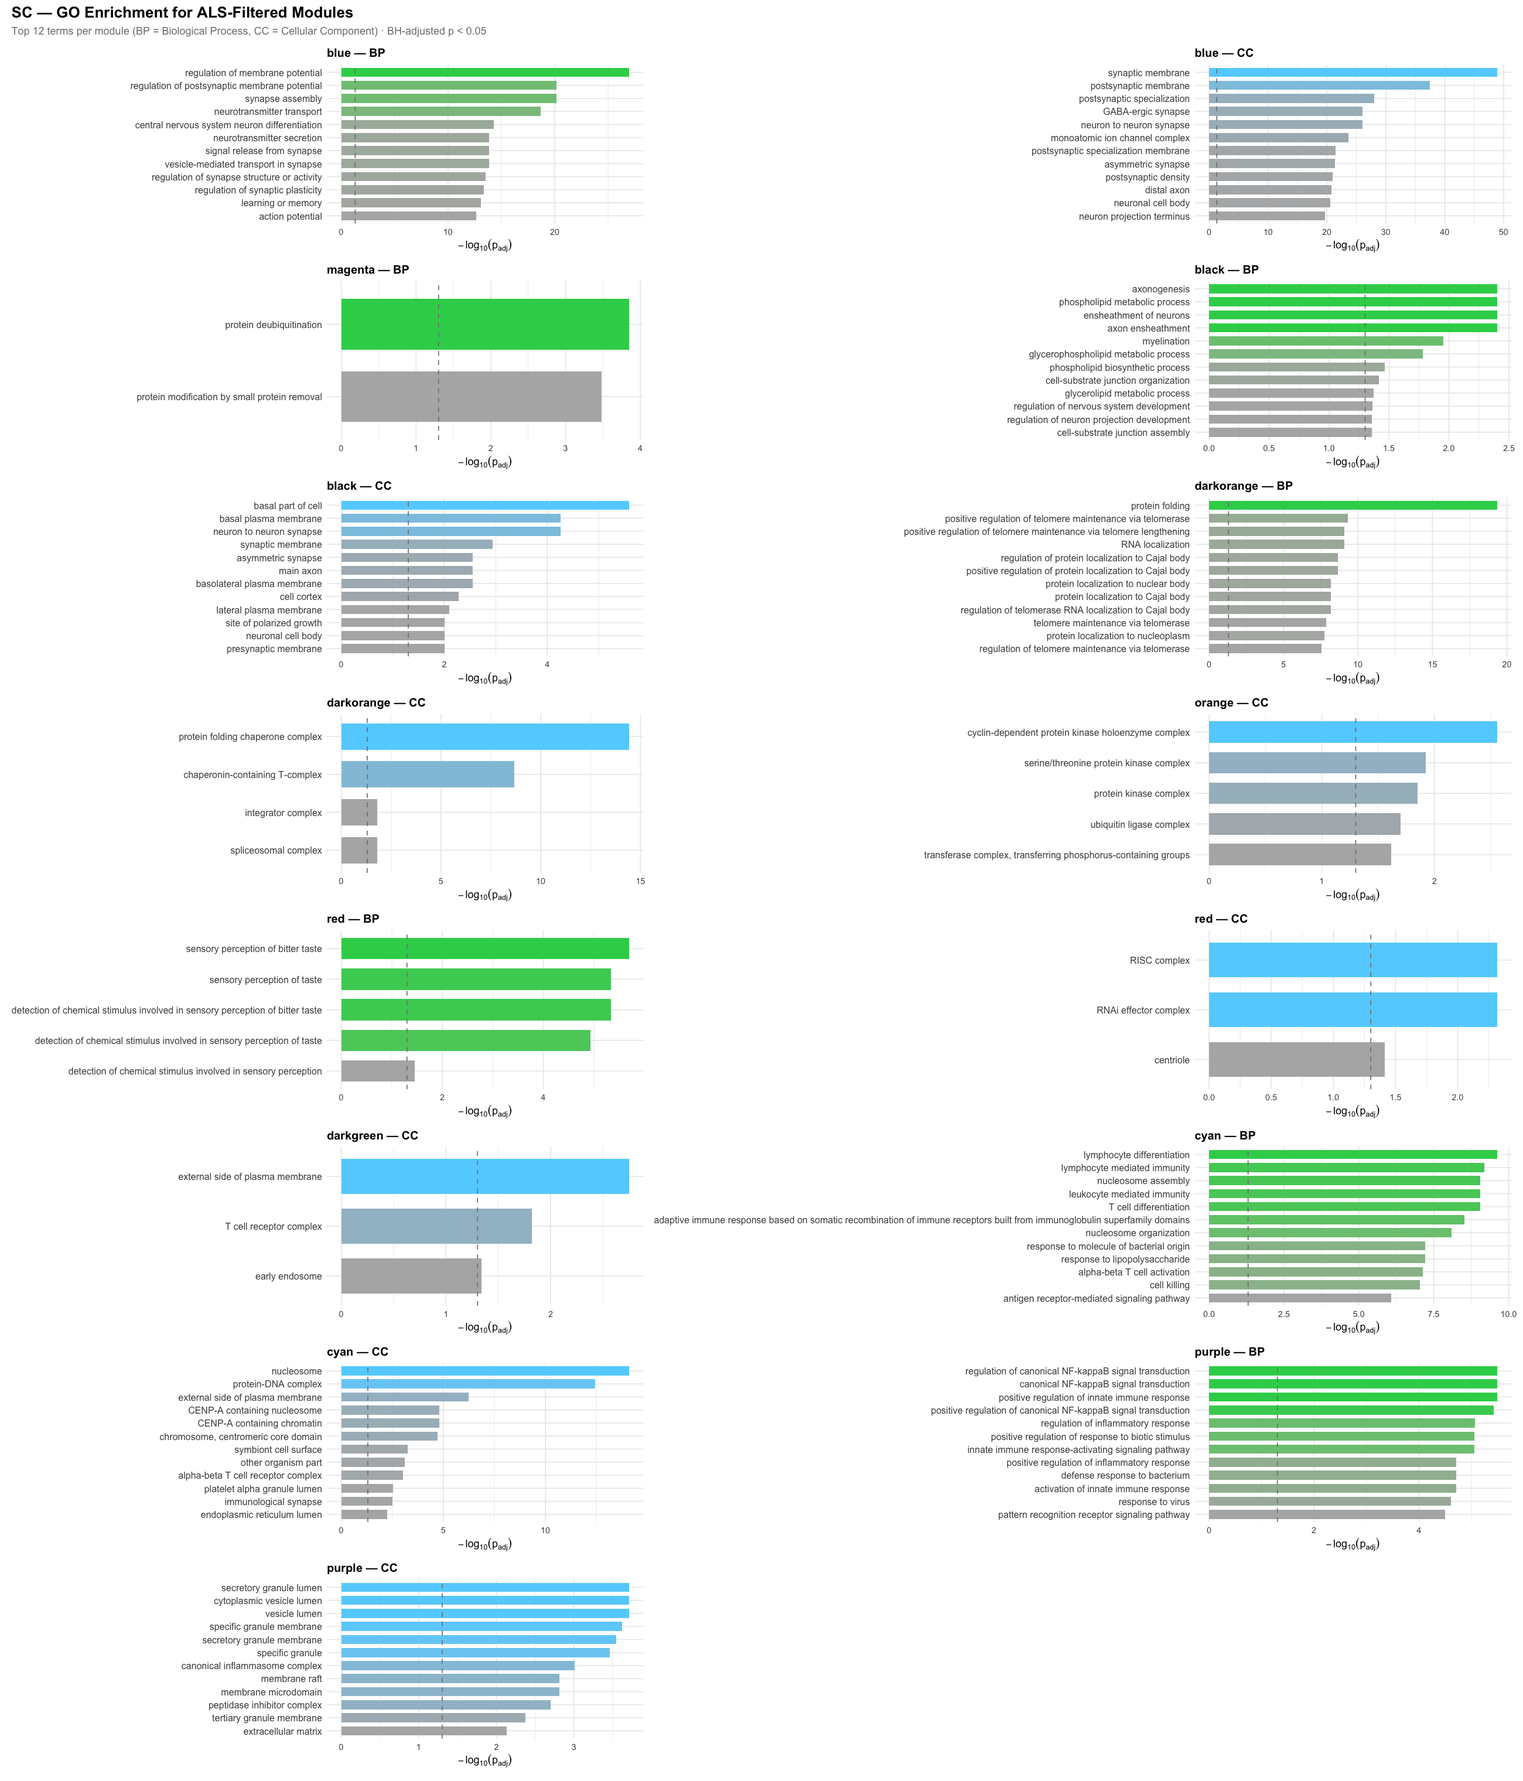
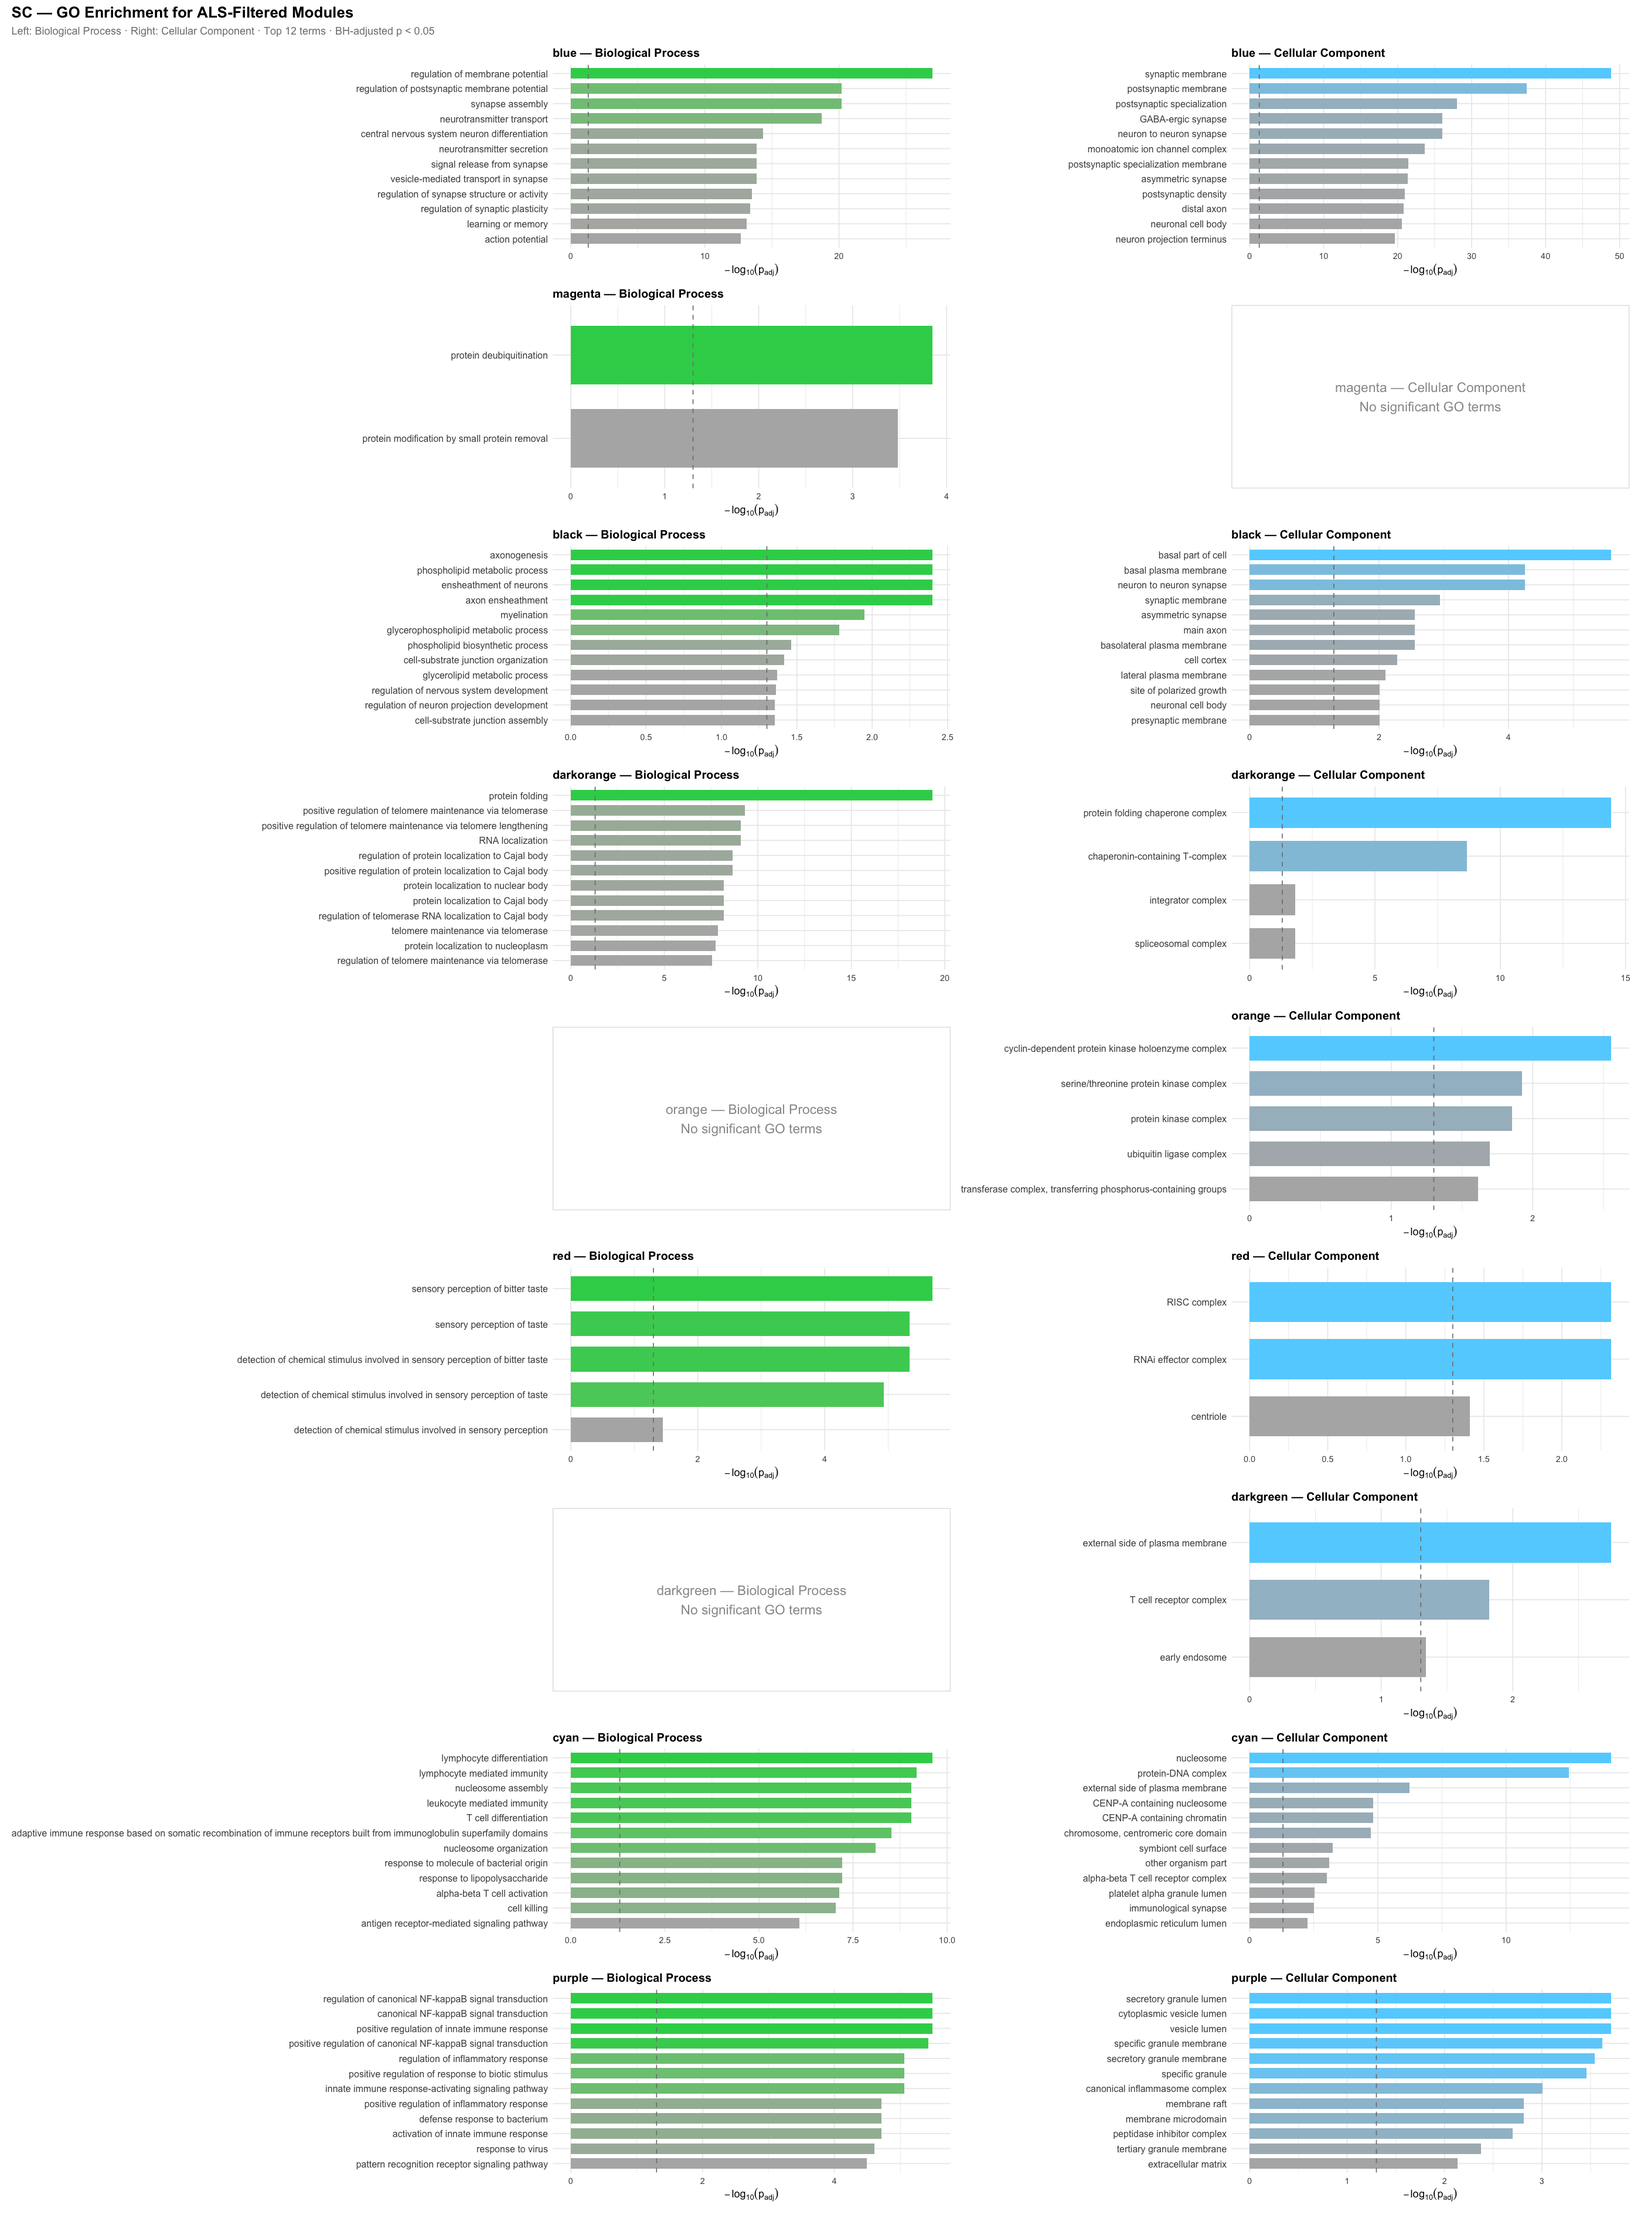
Fix GO plots, home dark mode, overlaps, and page titles
- GO enrichment PNGs regenerated: paired BP+CC per module (2-col × n-modules rows), with placeholder panels for modules with no significant terms (FC: 10×2, MC: 11×2, SC: 9×2)
- Home page (index.html) always forced dark — theme toggle button and JS removed
- FC hero: added padding-bottom to fix scroll hint / button overlap
- All 7 pages: unified <title>ALS Transcriptomics</title> so browser tab never changes
- website_analysis.R updated with make_placeholder_plot() and paired plot assembly logic

Changed region(s): [[0.0, 0.0, 0.5919, 1.0], [0.6231, 0.1562, 0.9969, 1.0], [0.6542, 0.0, 0.9969, 0.125]]

diff --git a/fc.html b/fc.html
@@ -9,7 +9,7 @@
     })();
   </script>
   <meta name="viewport" content="width=device-width, initial-scale=1.0" />
-  <title>Frontal Cortex — ALS Transcriptomics</title>
+  <title>ALS Transcriptomics</title>
   <link rel="preconnect" href="https://fonts.googleapis.com" />
   <link href="https://fonts.googleapis.com/css2?family=Inter:wght@300;400;500;600;700;800;900&display=swap" rel="stylesheet" />
   <link rel="stylesheet" href="style.css" />
@@ -19,7 +19,7 @@
     .hero { min-height:100vh; display:flex; flex-direction:column; align-items:center; justify-content:center; position:relative; overflow:hidden; text-align:center; padding:0 24px; }
     .hero-bg { position:absolute; inset:0; background:radial-gradient(ellipse 80% 60% at 50% 40%, rgba(41,151,255,0.2) 0%, rgba(100,210,255,0.1) 40%, transparent 70%); animation:pulse 8s ease-in-out infinite alternate; }
     .hero-grid { position:absolute; inset:0; background-image:linear-gradient(rgba(255,255,255,0.03) 1px,transparent 1px),linear-gradient(90deg,rgba(255,255,255,0.03) 1px,transparent 1px); background-size:60px 60px; mask-image:radial-gradient(ellipse 70% 70% at center,black 20%,transparent 80%); }
-    .hero-content { position:relative; z-index:1; max-width:820px; }
+    .hero-content { position:relative; z-index:1; max-width:820px; padding-bottom:90px; }
     .hero-eyebrow { display:inline-block; font-size:0.78rem; font-weight:600; letter-spacing:0.15em; text-transform:uppercase; color:var(--blue); margin-bottom:20px; opacity:0; animation:fadeUp 0.8s 0.2s ease forwards; }
     .hero-title { font-size:clamp(3rem,8vw,6.5rem); font-weight:800; line-height:1.04; letter-spacing:-0.04em; background:linear-gradient(135deg,#fff 0%,#888 100%); -webkit-background-clip:text; -webkit-text-fill-color:transparent; background-clip:text; opacity:0; animation:fadeUp 0.9s 0.4s ease forwards; }
     .hero-title span { background:linear-gradient(135deg,var(--blue),var(--teal)); -webkit-background-clip:text; background-clip:text; }

diff --git a/index.html b/index.html
@@ -3,13 +3,11 @@
 <head>
   <meta charset="UTF-8" />
   <script>
-    (function(){
-      var t = localStorage.getItem('theme') || 'dark';
-      document.documentElement.setAttribute('data-theme', t);
-    })();
+    /* Home page is always dark — ignore stored theme preference */
+    document.documentElement.setAttribute('data-theme', 'dark');
   </script>
   <meta name="viewport" content="width=device-width, initial-scale=1.0" />
-  <title>ALS Transcriptomics — Yohan Kwon</title>
+  <title>ALS Transcriptomics</title>
   <link rel="preconnect" href="https://fonts.googleapis.com" />
   <link href="https://fonts.googleapis.com/css2?family=Inter:wght@300;400;500;600;700;800;900&display=swap" rel="stylesheet" />
   <style>
@@ -425,7 +423,6 @@
     <li><a href="fc_analysis.html">FC Analysis</a></li>
     <li><a href="mc_analysis.html">MC Analysis</a></li>
     <li><a href="sc_analysis.html">SC Analysis</a></li>
-    <li><button class="theme-toggle" onclick="toggleTheme()" id="theme-btn">☀ Light</button></li>
   </ul>
 </nav>
 
@@ -844,21 +841,6 @@ document.addEventListener('mousemove', e => {
   const y = (e.clientY / window.innerHeight - 0.5) * 20;
   heroBg.style.transform = `translate(${x}px, ${y}px) scale(1.08)`;
 }, { passive: true });
-</script>
-<script>
-function toggleTheme(){
-  var h = document.documentElement;
-  var next = h.getAttribute('data-theme')==='dark' ? 'light' : 'dark';
-  h.setAttribute('data-theme', next);
-  localStorage.setItem('theme', next);
-  document.getElementById('theme-btn').textContent = next==='dark' ? '☀ Light' : '☾ Dark';
-}
-// Set button label on load
-(function(){
-  var t = localStorage.getItem('theme')||'dark';
-  var btn = document.getElementById('theme-btn');
-  if(btn) btn.textContent = t==='dark' ? '☀ Light' : '☾ Dark';
-})();
 </script>
 </body>
 </html>

diff --git a/fc_analysis.html b/fc_analysis.html
@@ -4,7 +4,7 @@
   <meta charset="UTF-8" />
   <script>(function(){var t=localStorage.getItem('theme')||'dark';document.documentElement.setAttribute('data-theme',t);})();</script>
   <meta name="viewport" content="width=device-width, initial-scale=1.0" />
-  <title>FC Analysis — ALS Transcriptomics</title>
+  <title>ALS Transcriptomics</title>
   <link rel="preconnect" href="https://fonts.googleapis.com" />
   <link href="https://fonts.googleapis.com/css2?family=Inter:wght@300;400;500;600;700;800;900&display=swap" rel="stylesheet" />
   <link rel="stylesheet" href="style.css" />

diff --git a/mc_analysis.html b/mc_analysis.html
@@ -4,7 +4,7 @@
   <meta charset="UTF-8" />
   <script>(function(){var t=localStorage.getItem('theme')||'dark';document.documentElement.setAttribute('data-theme',t);})();</script>
   <meta name="viewport" content="width=device-width, initial-scale=1.0" />
-  <title>MC Analysis — ALS Transcriptomics</title>
+  <title>ALS Transcriptomics</title>
   <link rel="preconnect" href="https://fonts.googleapis.com" />
   <link href="https://fonts.googleapis.com/css2?family=Inter:wght@300;400;500;600;700;800;900&display=swap" rel="stylesheet" />
   <link rel="stylesheet" href="style.css" />

diff --git a/sc_analysis.html b/sc_analysis.html
@@ -4,7 +4,7 @@
   <meta charset="UTF-8" />
   <script>(function(){var t=localStorage.getItem('theme')||'dark';document.documentElement.setAttribute('data-theme',t);})();</script>
   <meta name="viewport" content="width=device-width, initial-scale=1.0" />
-  <title>SC Analysis — ALS Transcriptomics</title>
+  <title>ALS Transcriptomics</title>
   <link rel="preconnect" href="https://fonts.googleapis.com" />
   <link href="https://fonts.googleapis.com/css2?family=Inter:wght@300;400;500;600;700;800;900&display=swap" rel="stylesheet" />
   <link rel="stylesheet" href="style.css" />

diff --git a/mc.html b/mc.html
@@ -9,7 +9,7 @@
     })();
   </script>
   <meta name="viewport" content="width=device-width, initial-scale=1.0" />
-  <title>Motor Cortex — ALS Transcriptomics</title>
+  <title>ALS Transcriptomics</title>
   <link rel="preconnect" href="https://fonts.googleapis.com" />
   <link href="https://fonts.googleapis.com/css2?family=Inter:wght@300;400;500;600;700;800;900&display=swap" rel="stylesheet" />
   <link rel="stylesheet" href="style.css" />

diff --git a/sc.html b/sc.html
@@ -9,7 +9,7 @@
     })();
   </script>
   <meta name="viewport" content="width=device-width, initial-scale=1.0" />
-  <title>Spinal Cord — ALS Transcriptomics</title>
+  <title>ALS Transcriptomics</title>
   <link rel="preconnect" href="https://fonts.googleapis.com" />
   <link href="https://fonts.googleapis.com/css2?family=Inter:wght@300;400;500;600;700;800;900&display=swap" rel="stylesheet" />
   <link rel="stylesheet" href="style.css" />
